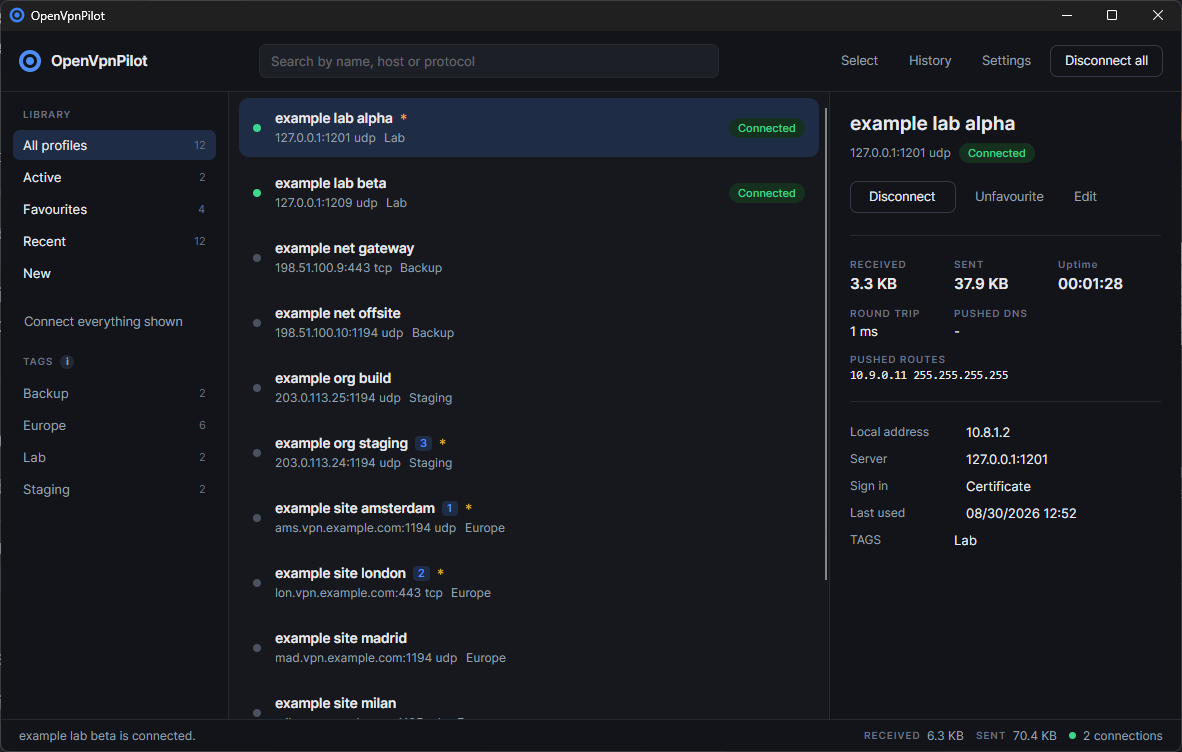
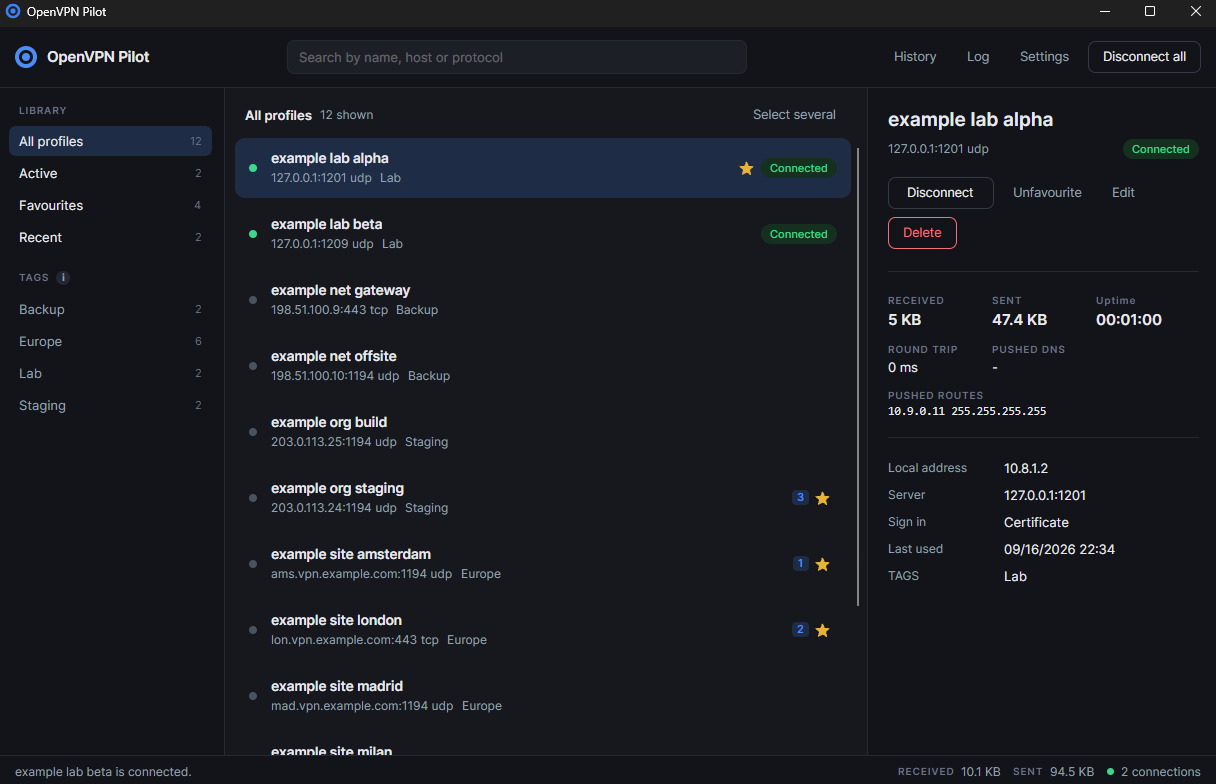
:bookmark: version 1.8.0 and what changed in it
The README carries the mark and a screenshot taken against the lab as it
stands, with two tunnels up and the figures for the selected one.

diff --git a/CHANGELOG.md b/CHANGELOG.md
@@ -8,6 +8,24 @@ The format follows [Keep a Changelog](https://keepachangelog.com/en/1.1.0/), and
 Development happens on `dev`. `master` carries releases, and every entry under Unreleased moves into a
 version heading when one is tagged. A release tag is `v<version>`, for example `v1.2.0`.
 
+## [1.8.0] - 2026-09-16
+
+### Changed
+
+- **The project moved to another repository.** The check for a newer release follows it: a settings
+  file naming the repository this was published from before is pointed at the new one, once, and a
+  field naming anything else is left alone, because that is a fork somebody typed and it follows its
+  own releases.
+- The port in the profile editor has room for the number in it. Five digits were clipped by the box
+  the buttons of a spinner share, and the field that gave the width up is the address, which is
+  longer than its box whatever the box is.
+
+### Added
+
+- The mark as plain images, `logo-128` to `logo-1024` in `assets/artwork`, drawn by the same command
+  as the icons. An icon container is what a system asks for and an image is what a page asks for,
+  and until now the second had to be exported by hand.
+
 ## [1.7.0] - 2026-09-16
 
 ### Removed

diff --git a/README.md b/README.md
@@ -1,3 +1,5 @@
+<img src="assets/artwork/logo-256.png" alt="" width="88" height="88">
+
 # OpenVPN Pilot
 
 A desktop client for OpenVPN built for people who manage a lot of profiles.
@@ -15,7 +17,7 @@ installation directory and the data directory are `OpenVpnPilot`, and the compan
 `ovp`. On macOS the bundle is `OpenVPN Pilot.app`, because the Finder labels an application with its
 file name and with nothing else.
 
-> **Status: version 1.7.0.** The integration layer and the interface are proven end to end against
+> **Status: version 1.8.0.** The integration layer and the interface are proven end to end against
 > OpenVPN Community 2.7.6 and against the ten server lab in this repository. Windows is released as
 > an unsigned installer. **macOS is built from the source and is not released as a download**, which
 > is one command and is explained in [docs/macos.md](docs/macos.md). See [Roadmap](#roadmap).
